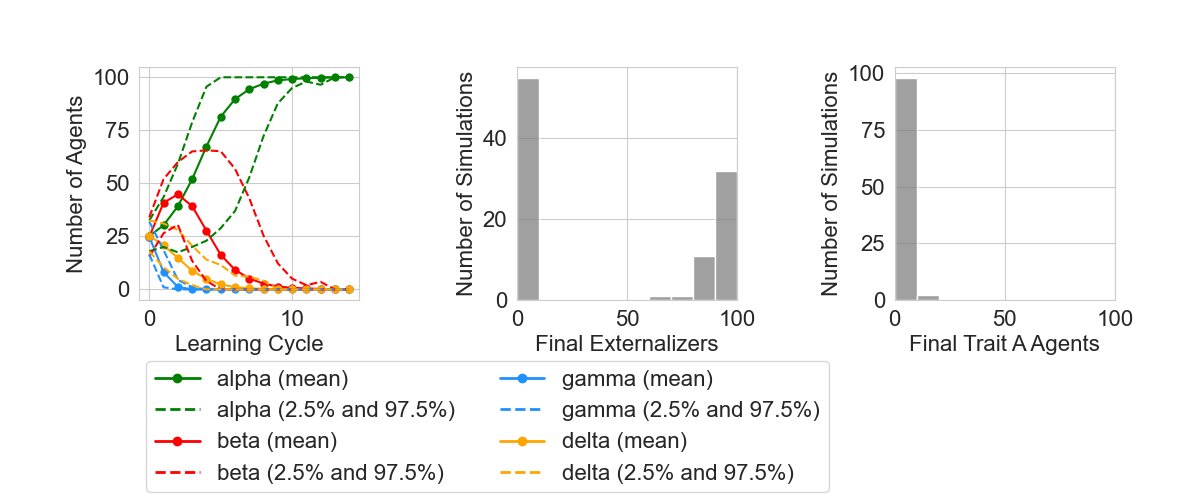
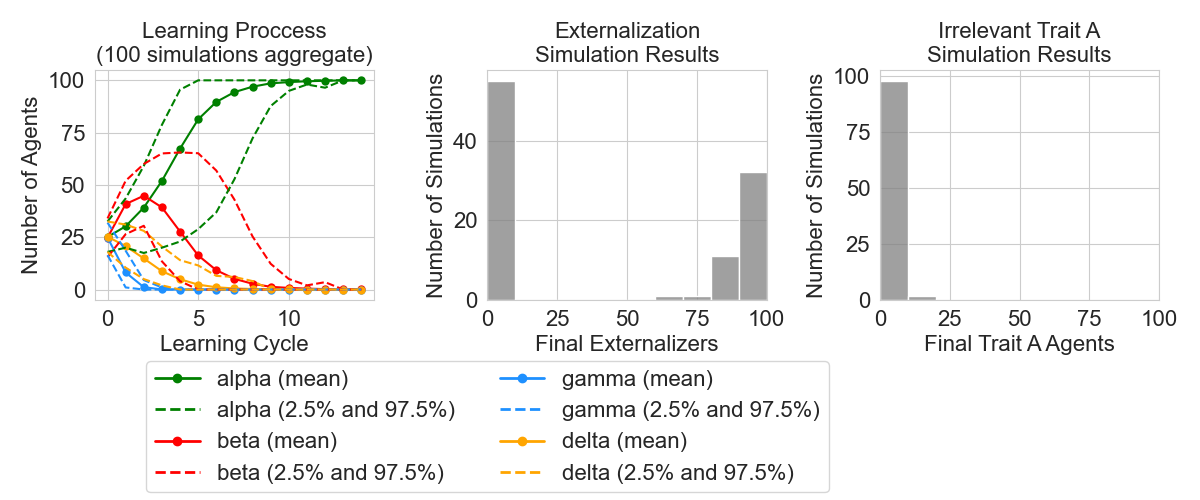
adjusted figure margins and titles

Changed region(s): [[0.3392, 0.03, 0.9867, 0.72], [0.0, 0.03, 0.3083, 0.72]]

diff --git a/src/visualization_2.py b/src/visualization_2.py
@@ -125,17 +125,20 @@ def plot_shared(learning_df, final_ext, final_A, max_hist, binwidth, ncols):
     sns.lineplot(data=learning_df, x="learning_step", y="2.5",
                  hue="behavior", linestyle='--', palette=COLOR_DICT,
                  markeredgewidth=0, ax=axes[0])
+    axes[0].set_title("Learning Proccess\n(100 simulations aggregate)")
 
     axes[1].set_ylabel("Number of Simulations")
     axes[1].set_xlabel("Final Externalizers")
     sns.histplot(x=pd.Series(final_ext), stat="count", binwidth=binwidth, color="gray", kde=False, ax=axes[1])
     axes[1].set_xlim(0, max_hist)
+    axes[1].set_title("Externalization\nSimulation Results")
 
     if final_A:
         axes[2].set_ylabel("Number of Simulations")
         axes[2].set_xlabel("Final Trait A Agents")
         sns.histplot(x=pd.Series(final_A), stat="count", binwidth=binwidth, color="gray", kde=False, ax=axes[2])
         axes[2].set_xlim(0, max_hist)
+        axes[2].set_title("Irrelevant Trait A\nSimulation Results")
 
     for ax in axes:
         if ax.get_legend() is not None:
@@ -153,7 +156,7 @@ def plot_shared(learning_df, final_ext, final_A, max_hist, binwidth, ncols):
 
     legend_placement = (0.7, 0.3) if ncols==3 else (1.0, 0.3)
     fig.legend(handles=handles, labels=labels, ncol=2, bbox_to_anchor=legend_placement)
-    fig.tight_layout(pad=3.0)
+    fig.tight_layout(pad=1.0)
     plt.subplots_adjust(bottom=0.4)
     return fig
 
